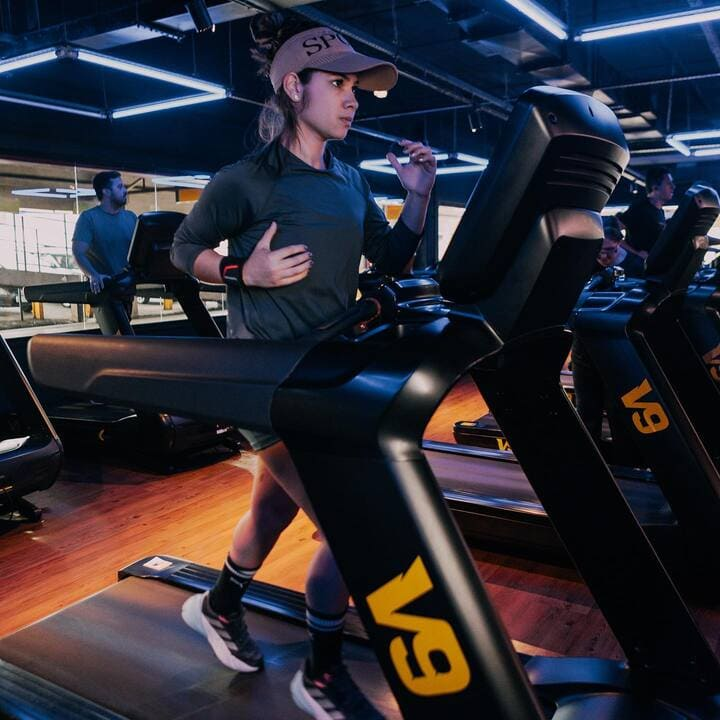
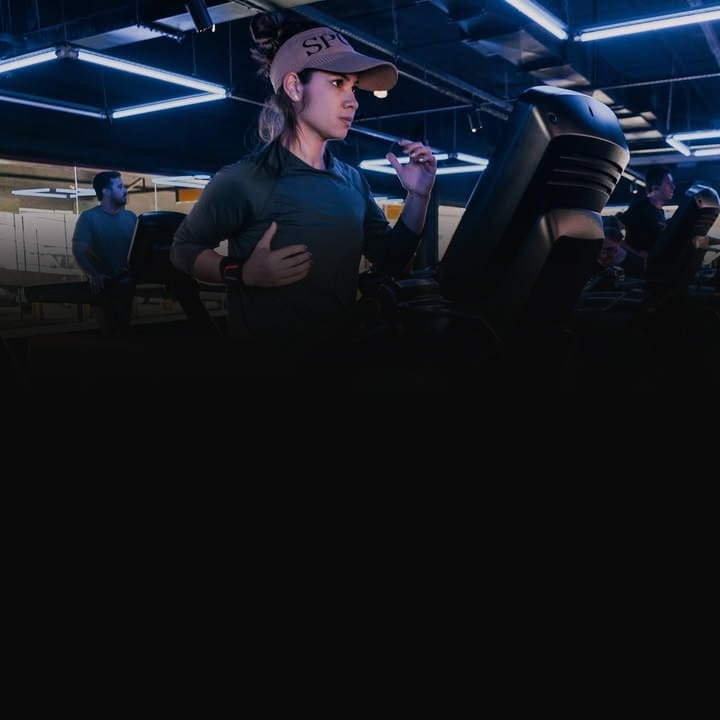
minor changes

diff --git a/src/app/features/hero/hero.component.ts b/src/app/features/hero/hero.component.ts
@@ -1,53 +1,36 @@
-import { Component } from '@angular/core';
-import { ActionButtonDirective } from '../../shared/action-button.directive';
+import { AfterViewInit, Component, ElementRef, ViewChild } from '@angular/core';
 import { FontAwesomeModule } from '@fortawesome/angular-fontawesome';
 import { faArrowDown } from '@fortawesome/free-solid-svg-icons';
+import { ActionButtonDirective } from '../../shared/action-button.directive';
 import { TextHighlightDirective } from '../../shared/text-highlight.directive';
-import { InViewDirective } from '../../shared/in-view.directive';
 
 @Component({
 	selector: 'app-hero',
-	imports: [FontAwesomeModule, ActionButtonDirective, TextHighlightDirective, InViewDirective],
+	imports: [FontAwesomeModule, ActionButtonDirective, TextHighlightDirective],
 	template: `
-		<!-- Background -->
-		<div
-			[style.backgroundImage]="'url(images/hero.jpg)'"
-			class="absolute w-full h-screen bg-center bg-cover bg-no-repeat -z-10"
-		></div>
-		<div class="absolute w-full h-screen bg-gradient-to-t from-neutral-950 from-40% to-transparent -z-10"></div>
-		<!-- Content -->
-		<div appInView class="content absolute bottom-0 w-full h-2/3 mt-auto flex flex-col p-8">
-			<span class="text-center text-7xl font-black mb-4">DESAFIO<br />30 DIAS</span>
-			<span class="text-center text-2xl"
-				>Transforme Seu Corpo<br />e Sua Vida em<br />Apenas <span appTextHighlight>4 SEMANAS!</span></span
+		<div class="h-full max-w-5xl mx-auto">
+			<!-- Content -->
+			<div
+				[style.backgroundImage]="'url(images/hero.jpg)'"
+				class="h-full flex flex-col justify-end p-8 bg-center bg-cover bg-no-repeat"
 			>
-			<div class="my-auto flex flex-col justify-center gap-8">
-				<a appActionButton class="">GARANTA SUA VAGA!</a>
-				<fa-icon class="text-center text-5xl duration-1000 transition-all animate-jump" [icon]="arrowIcon"></fa-icon>
+				<span class="text-center text-7xl font-black mb-4">DESAFIO<br />30 DIAS</span>
+				<span class="text-center text-2xl mb-4"
+					>Transforme Seu Corpo<br />e Sua Vida em<br />Apenas <span appTextHighlight>4 SEMANAS!</span></span
+				>
+				<div #content class="flex flex-col justify-center gap-8">
+					<a appActionButton class="">GARANTA SUA VAGA!</a>
+					<fa-icon class="text-center text-4xl duration-1000 transition-all animate-jump" [icon]="arrowIcon"></fa-icon>
+				</div>
 			</div>
 		</div>
 	`,
-	host: {
-		class: `
-      		block
-      		w-full
-      		h-screen
-      		relative
-			max-w-5xl
-			mx-auto
-    `,
-	},
-	styles: `
-		.content{
-			opacity: 0;
-			transition: opacity 2s ease-in-out;
-
-			&.in-view {
-				opacity: 1;
-			}
-		}
-	`,
 })
-export class HeroComponent {
+export class HeroComponent implements AfterViewInit {
+	@ViewChild('content') content?: ElementRef<HTMLDivElement>;
 	arrowIcon = faArrowDown;
+
+	ngAfterViewInit(): void {
+		setTimeout(() => this.content?.nativeElement.click(), 0);
+	}
 }

diff --git a/src/app/shared/action-button.directive.ts b/src/app/shared/action-button.directive.ts
@@ -1,4 +1,4 @@
-import { Directive, HostBinding, HostListener, OnDestroy, OnInit } from '@angular/core';
+import { Directive, OnDestroy, OnInit } from '@angular/core';
 import { BehaviorSubject, interval, Subject, switchMap, takeUntil, tap } from 'rxjs';
 
 @Directive({
@@ -22,7 +22,7 @@ import { BehaviorSubject, interval, Subject, switchMap, takeUntil, tap } from 'r
   		`,
 		'[class.animate-grow]': 'inGrowAnimation',
 		href:
-			'https://wa.me/5511966374958?text=Acabei%20de%20clicar%20no%20bot%C3%A3o%20%22Garanta%20Sua%20Vaga%22%20e%20gostaria%20de%20mais%20informa%C3%A7%C3%B5es%20sobre%20%5Bnome%20do%20curso%2C%20evento%20ou%20servi%C3%A7o%5D.%20Poderiam%20me%20passar%20os%20detalhes%20sobre%20valores%2C%20formas%20de%20pagamento%20e%20pr%C3%B3ximos%20passos%20para%20confirmar%20minha%20inscri%C3%A7%C3%A3o%3F',
+			'https://wa.me/5511966374958?text=Acabei%20de%20clicar%20no%20bot%C3%A3o%20%22Garanta%20Sua%20Vaga%22%20e%20gostaria%20de%20mais%20informa%C3%A7%C3%B5es%20sobre%20o%20%2ADesafio%2030%20Dias%2A.%20Poderiam%20me%20passar%20os%20detalhes%20sobre%20como%20posso%20confirmar%20minha%20inscri%C3%A7%C3%A3o%3F',
 		target: '_blank',
 	},
 })

diff --git a/src/app/app.component.ts b/src/app/app.component.ts
@@ -1,8 +1,8 @@
 import { Component } from '@angular/core';
-import { CallActionComponent } from './features/call-action/call-action.component';
 import { AutorComponent } from './features/autor/autor.component';
 import { BeneficiosComponent } from './features/beneficios/beneficios.component';
 import { CallActionMiniComponent } from './features/call-action-mini/call-action-mini.component';
+import { CallActionComponent } from './features/call-action/call-action.component';
 import { DepoimentosComponent } from './features/depoimentos/depoimentos.component';
 import { FaqComponent } from './features/faq/faq.component';
 import { HeroComponent } from './features/hero/hero.component';

diff --git a/src/app/features/autor/autor.component.ts b/src/app/features/autor/autor.component.ts
@@ -35,7 +35,7 @@ import { InViewDirective } from '../../shared/in-view.directive';
 				/>
 			</div>
 			<div class="grid p-4">
-				<span class="text-2xl">Conheça a <span appTextHighlight class="teste">MARIA LIVIA</span>,</span>
+				<span class="text-xl">Conheça a <span appTextHighlight class="teste">MARIA LIVIA</span></span>
 				<span>Especialista por Trás do Método</span>
 				<p class="text-sm text-justify text-neutral-400 mt-2 mb-6">
 					Após superar desafios pessoais e conquistar resultados impressionantes, Maria Livia dedica sua vida a ajudar outras

diff --git a/src/index.html b/src/index.html
@@ -1,10 +1,10 @@
 <!doctype html>
-<html lang="en">
+<html lang="pt-BR">
 	<head>
 		<meta charset="utf-8" />
 		<title>MariaLivia30Dias</title>
 		<base href="/" />
-		<meta name="viewport" content="width=device-width, initial-scale=1" 		/>
+		<meta name="viewport" content="width=device-width, initial-scale=1"/>
 		<link rel="icon" type="image/x-icon" href="favicon.ico" />
 	</head>
 	<body class="bg-neutral-950 text-neutral-50">

diff --git a/src/styles.scss b/src/styles.scss
@@ -1,3 +1,9 @@
 /* You can add global styles to this file, and also import other style files */
 @tailwind base;
 @tailwind utilities;
+@tailwind components;
+
+html,
+body {
+	height: 100%;
+}
